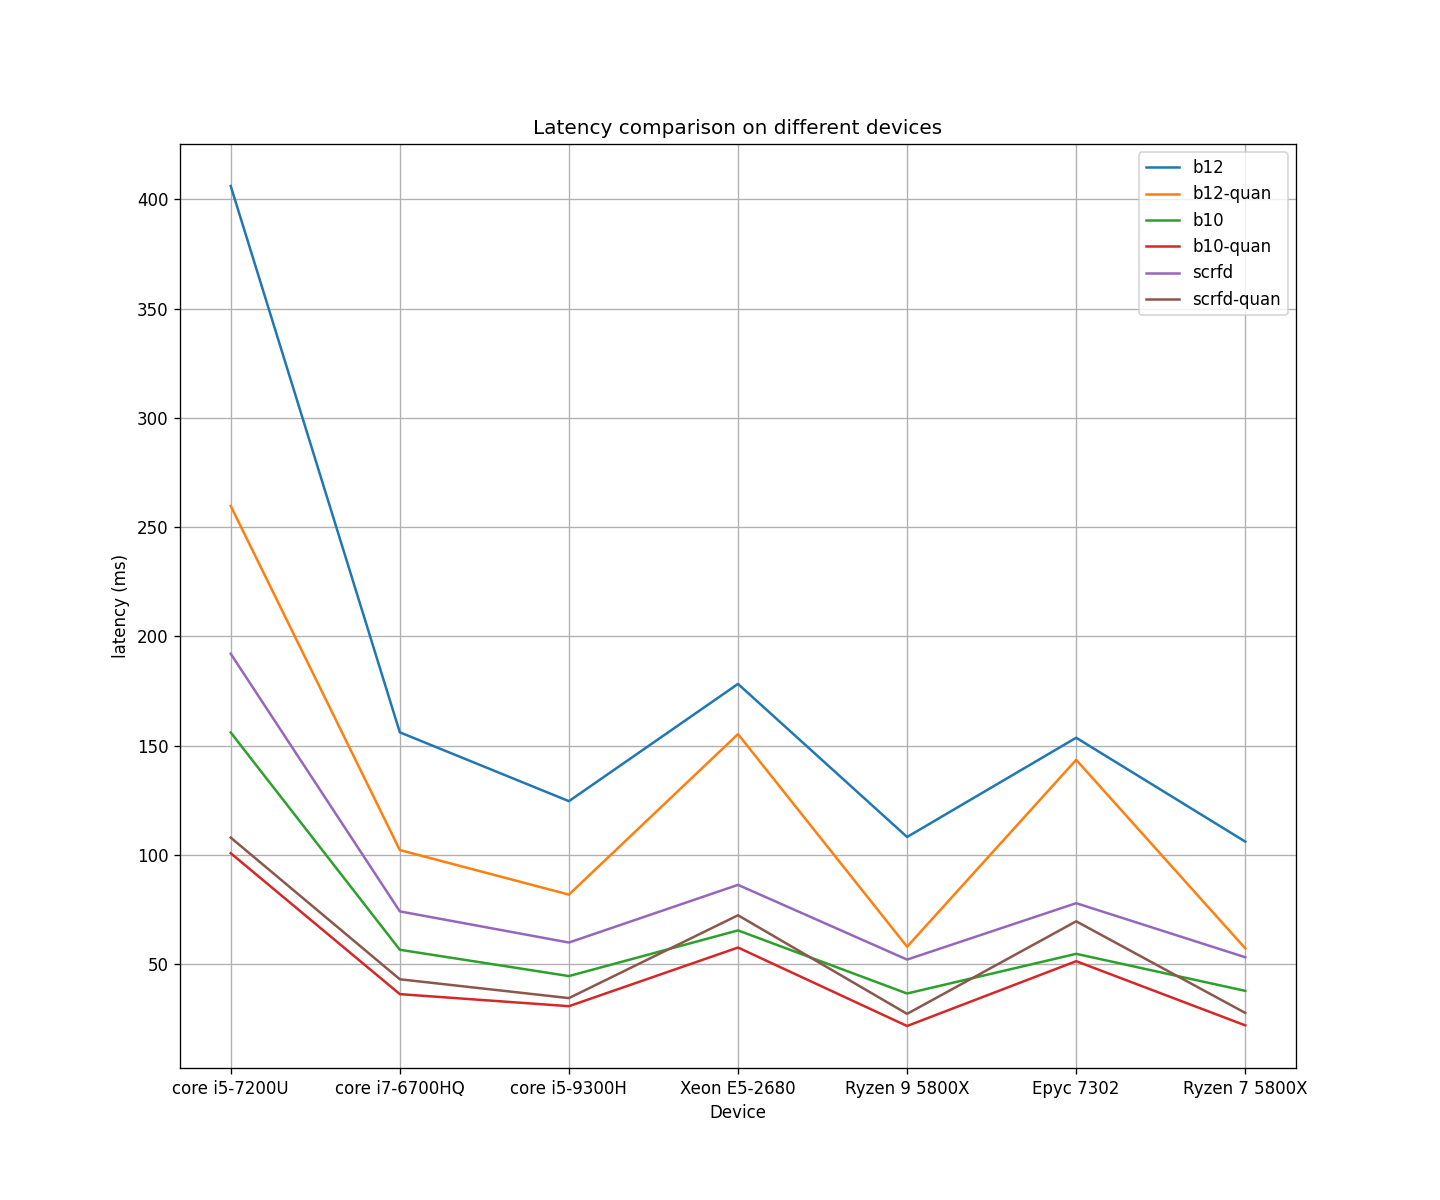
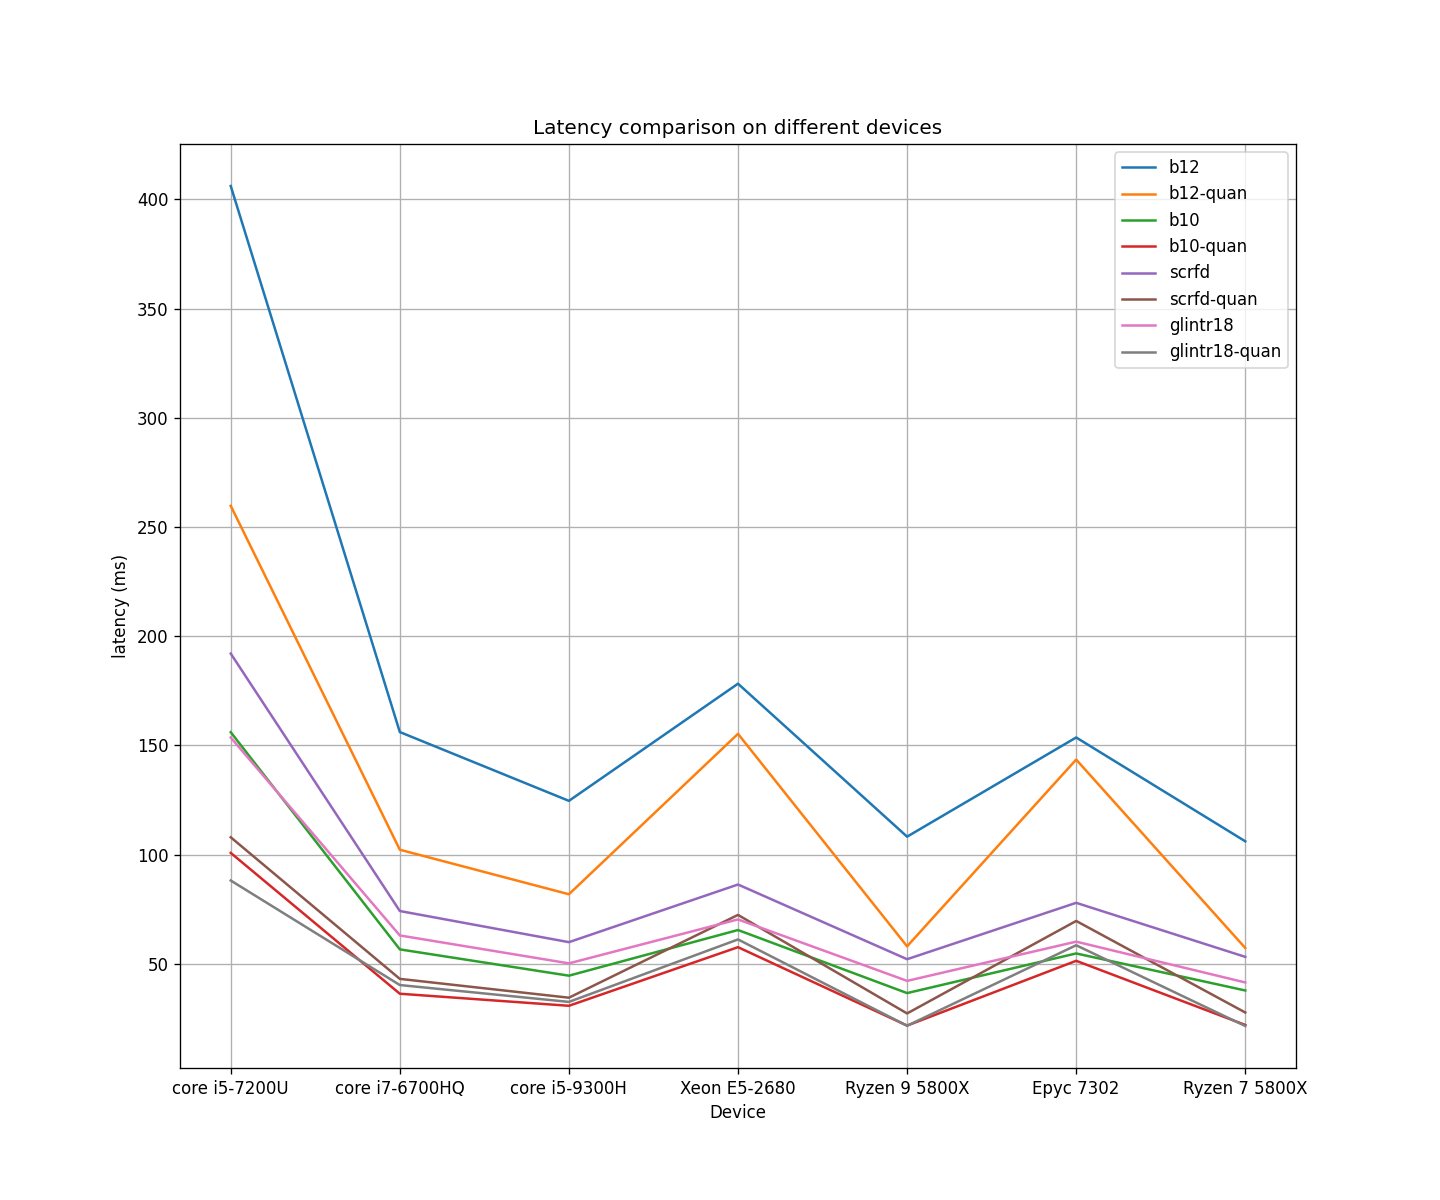
Core i5-9300HQ results added - Benchmark plots updated

diff --git a/utils/results.py b/utils/results.py
@@ -25,8 +25,8 @@ raw_results = [{"name": "core i5-7200U", "results":
                 "b10-quan": [32.37, 30.86],
                 "scrfd": [16.65, 59.98],
                 "scrfd-quan": [28.88, 34.56],
-                "glintr18": [-1, -1],
-                "glintr18-quan": [-1, -1]}
+                "glintr18": [19.87, 50.28],
+                "glintr18-quan": [30.57, 32.64]}
                },
                {"name": "Xeon E5-2680", "results": 
                 {"b12": [5.61, 178.29],

diff --git a/utils/benchmarkPlotter.py b/utils/benchmarkPlotter.py
@@ -59,7 +59,7 @@ def main():
     print("========================")
     #######################################################################################
     print("FPS speedup vs Devices\n========================")
-    model_names = ["b12", "b10", "scrfd"]
+    model_names = ["b12", "b10", "scrfd", "glintr18"]
 
     figure(figsize=(12, 10), dpi=120)
     for i, device_name in enumerate(device_names):

diff --git a/docs/timing-benchmark.md b/docs/timing-benchmark.md
@@ -155,8 +155,8 @@ The following table shows important CPU features of each system:
 			<td> 153.66 </td>
 			<td> 15.84 </td>
 			<td> 63.06 </td>
-			<td>  </td>
-			<td>  </td>
+			<td> 19.87 </td>
+			<td> 50.28 </td>
 			<td> 14.19 </td>
 			<td> 70.39 </td>
 			<td> 23.65 </td>
@@ -172,8 +172,8 @@ The following table shows important CPU features of each system:
 			<td> 88.20 </td>
 			<td> 24.74 </td>
 			<td> 40.36 </td>
-			<td>  </td>
-			<td>  </td>
+			<td> 30.57 </td>
+			<td> 32.64 </td>
 			<td> 16.30 </td>
 			<td> 61.23 </td>
 			<td> 45.98 </td>
@@ -275,8 +275,8 @@ The following table shows the FPS and latency improvement value for each model o
 			<td> 42.60% </td>
 			<td> 56.19% </td>
 			<td> 40.0% </td>
-			<td>  </td>
-			<td>  </td>
+			<td> 53.85% </td>
+			<td> 35.08% </td>
 			<td> 14.87% </td>
 			<td> 13.01% </td>
 			<td> 94.41% </td>
